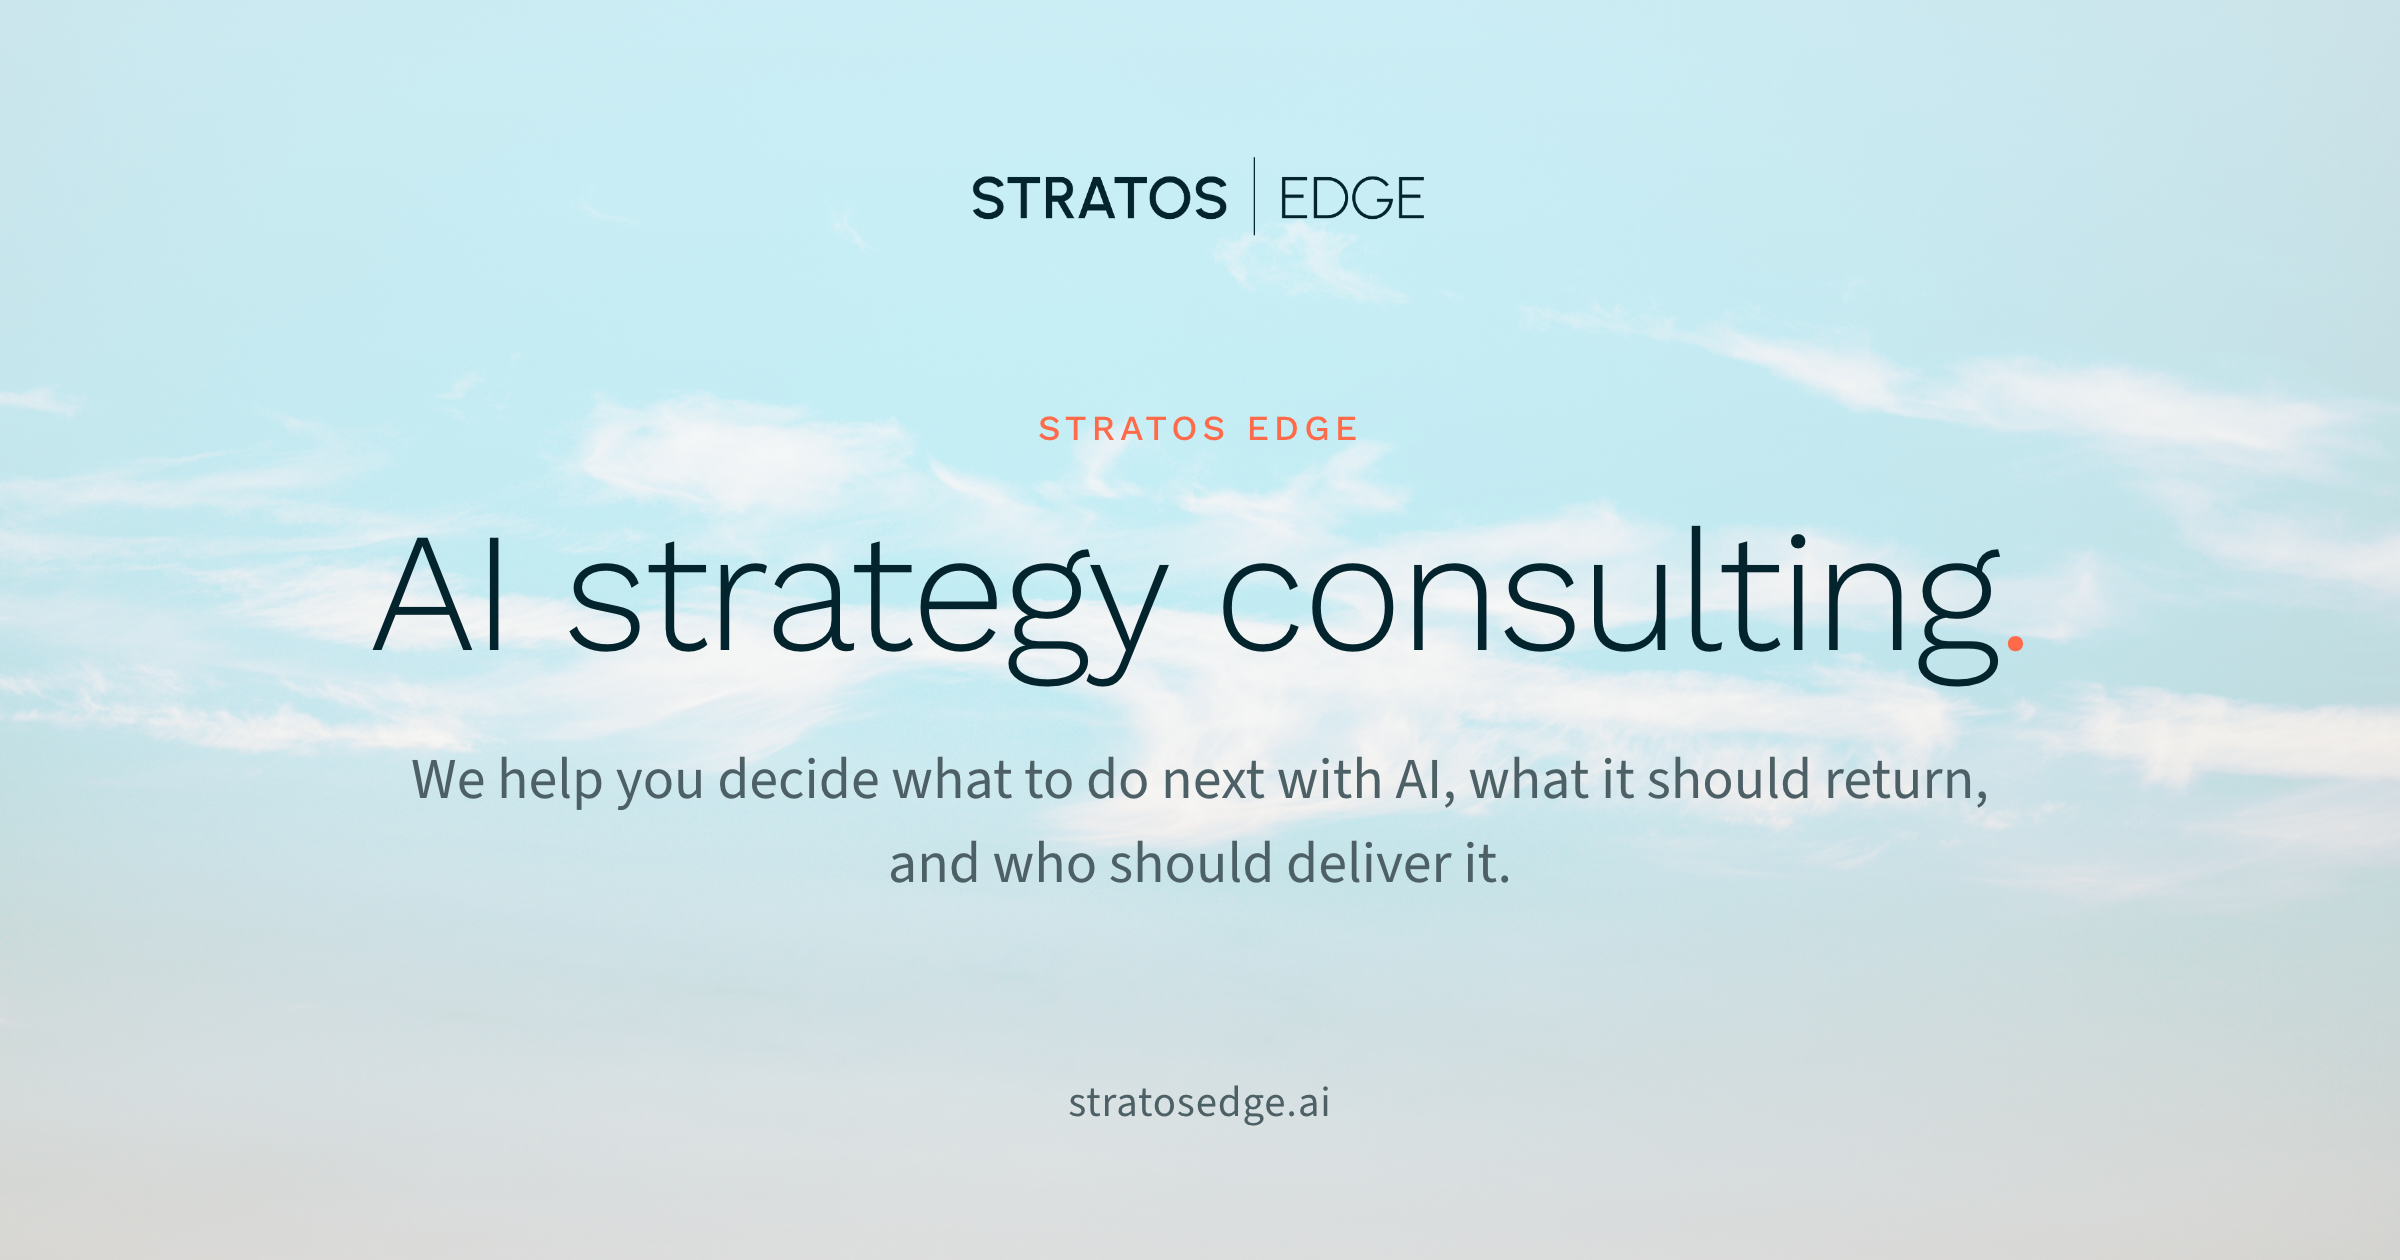
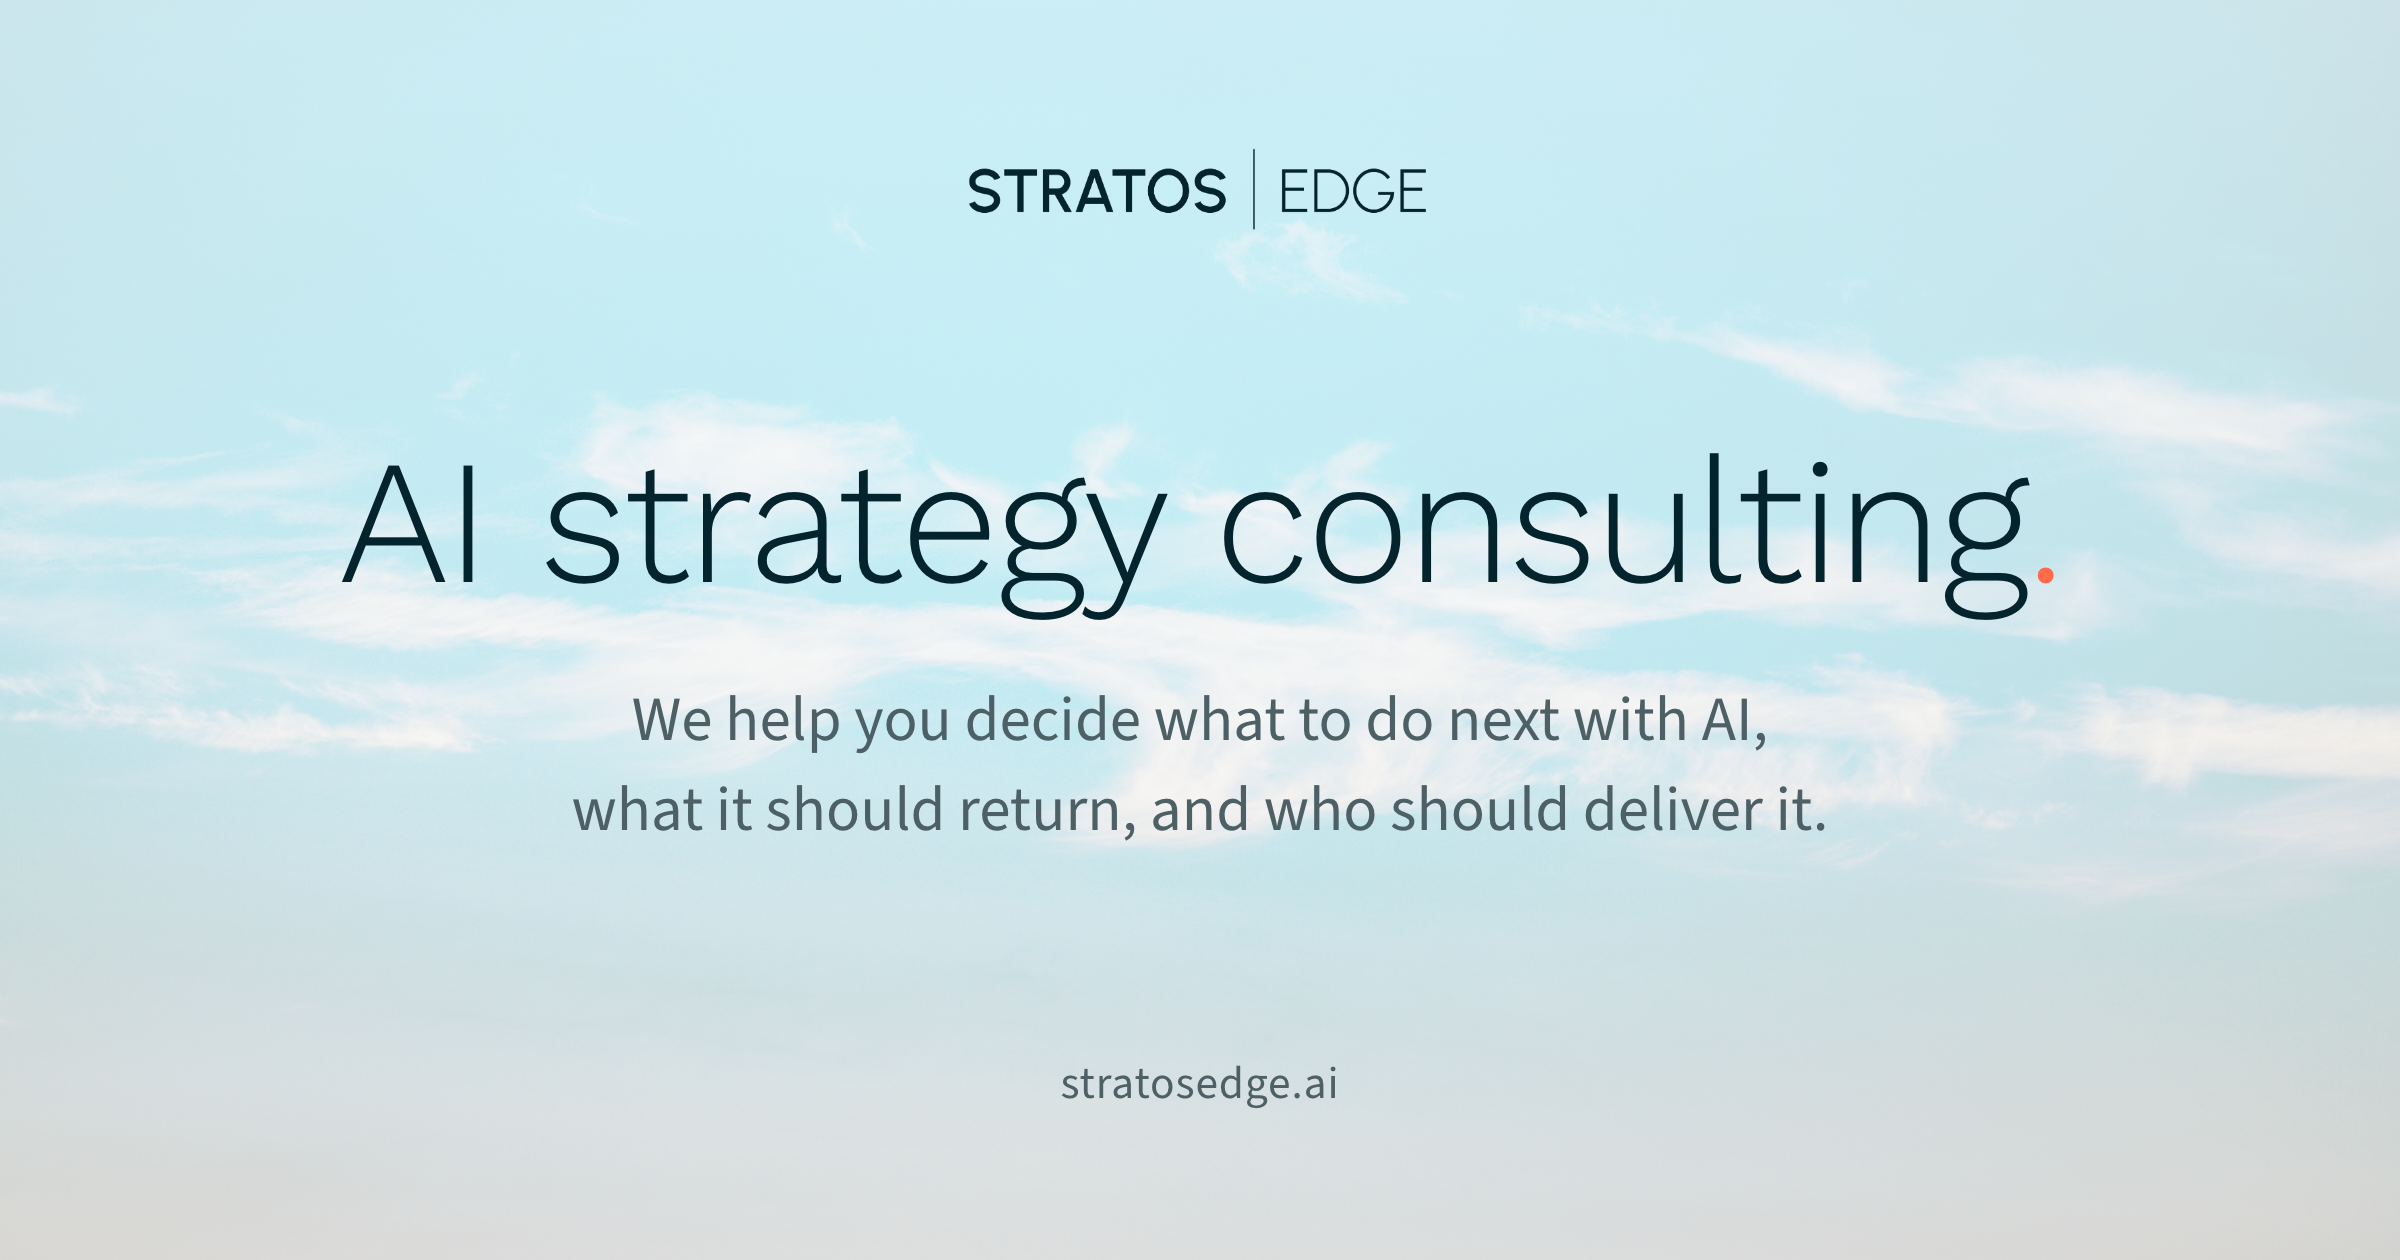
Sharing image: drop the eyebrow, rebalance (equal margins, equal gaps, centred block)

diff --git a/scripts/brand-media/index.html b/scripts/brand-media/index.html
@@ -102,12 +102,12 @@
   };
 
   const boards = {
-    'sharing-image': (w, h) => `<div class="board" style="width:${w}px;height:${h}px;padding:${h * .12}px ${w * .09}px ${h * .1}px;display:flex;flex-direction:column;align-items:center;justify-content:space-between;text-align:center">${sky}
+    // Sharing image: wordmark, the one-liner with the sentence, the site; equal gaps, equal margins top and bottom.
+    'sharing-image': (w, h) => `<div class="board" style="width:${w}px;height:${h}px;padding:${h * .115}px ${w * .09}px;display:flex;flex-direction:column;align-items:center;justify-content:space-between;text-align:center">${sky}
       <div class="mark mask" style="width:${w * .2}px"></div>
-      <div><p class="eyebrow" style="font-size:${h * .028}px;margin-bottom:${h * .045}px">Stratos Edge</p>
-      <p class="h" style="font-size:${h * .135}px">${H(copy.oneLiner)}</p>
-      <p class="lead" style="font-size:${h * .046}px;max-width:${w * .66}px;margin:${h * .045}px auto 0">${copy.sentence}</p></div>
-      <span class="small" style="font-size:${h * .034}px">${copy.site}</span></div>`,
+      <div><p class="h" style="font-size:${h * .14}px">${H(copy.oneLiner)}</p>
+      <p class="lead" style="font-size:${h * .05}px;max-width:${w * .66}px;margin:${h * .05}px auto 0;text-wrap:balance">${copy.sentence}</p></div>
+      <span class="small" style="font-size:${h * .036}px">${copy.site}</span></div>`,
     ...Object.fromEntries(Object.keys(banners).flatMap((id) => [[`linkedin-${id}`, banners[id]], [`mock-${id}`, (w) => mock(id, w)]])),
 
     // X header 1500x500 and YouTube banner 2560x1440 (safe area 1546x423, centred).
